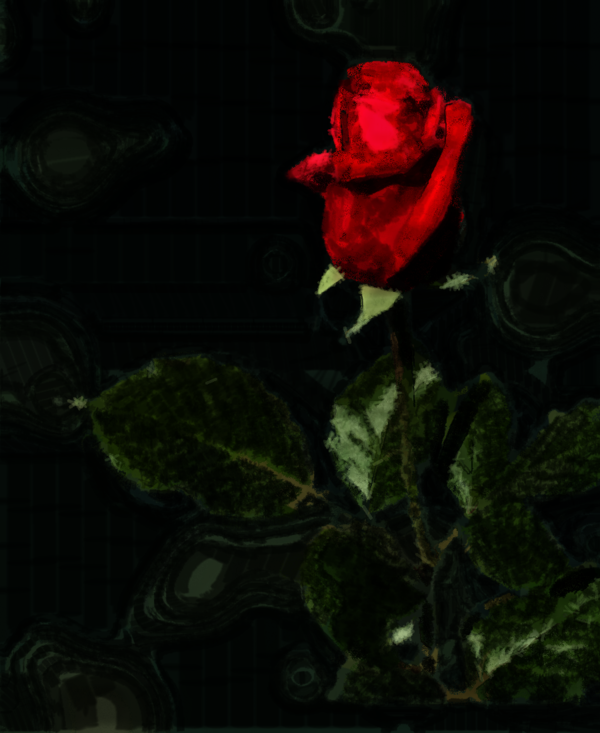
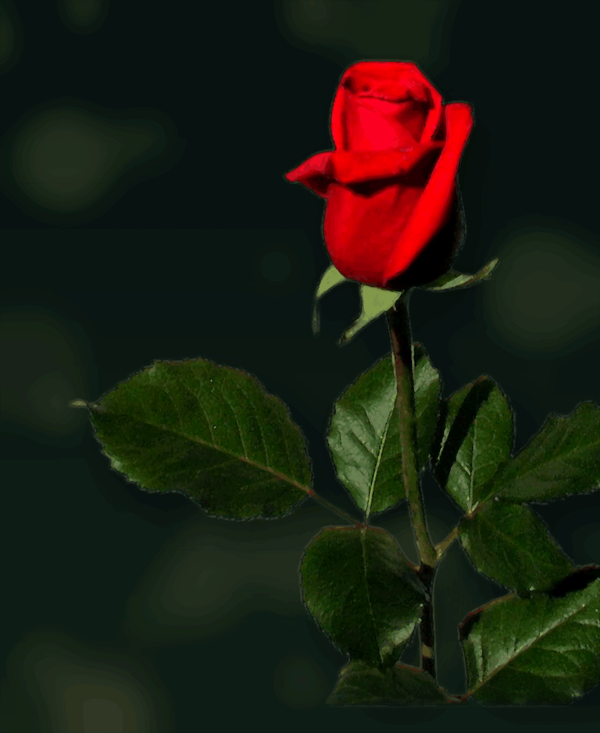
README：厚涂章节改为8层计划与最终渲染对比，替换旧玫瑰图

diff --git a/README.md b/README.md
@@ -45,11 +45,11 @@ Skill id 也一并改成了 **`svg-rebuild-and-paint`**（安装目录 `$DSH_HOM
 左：320×200 位图直接按最近邻放大 4×，斜边是阶梯。  
 右：同一张图经 `vectorize.py` 重建为纯 `<path>` 曲线，再放大 4×，边界仍是连续曲线。
 
-### 2. 程序化厚涂：计划 → 像素
+### 2. 程序化厚涂：8 层计划 → 像素
 
-![8 层厚涂玫瑰](skill/docs/images/painting-rose.png)
+![8 层计划与最终渲染对比](skill/docs/images/painting-plan-vs-render.png)
 
-每根笔触带位置、压力、颜色、硬度和纹理；同一份 plan 重复渲染逐位相同，也支持 GPU、差量和 tile 增量。
+左：8 层 plan 的分层预览（57,812 笔）；右：同一计划的最终渲染。层、笔触和颜色都可继续编辑；同一份 plan 重复渲染逐位相同。
 
 ### 3. 计划空间改画：红玫瑰 → 白玫瑰
 
